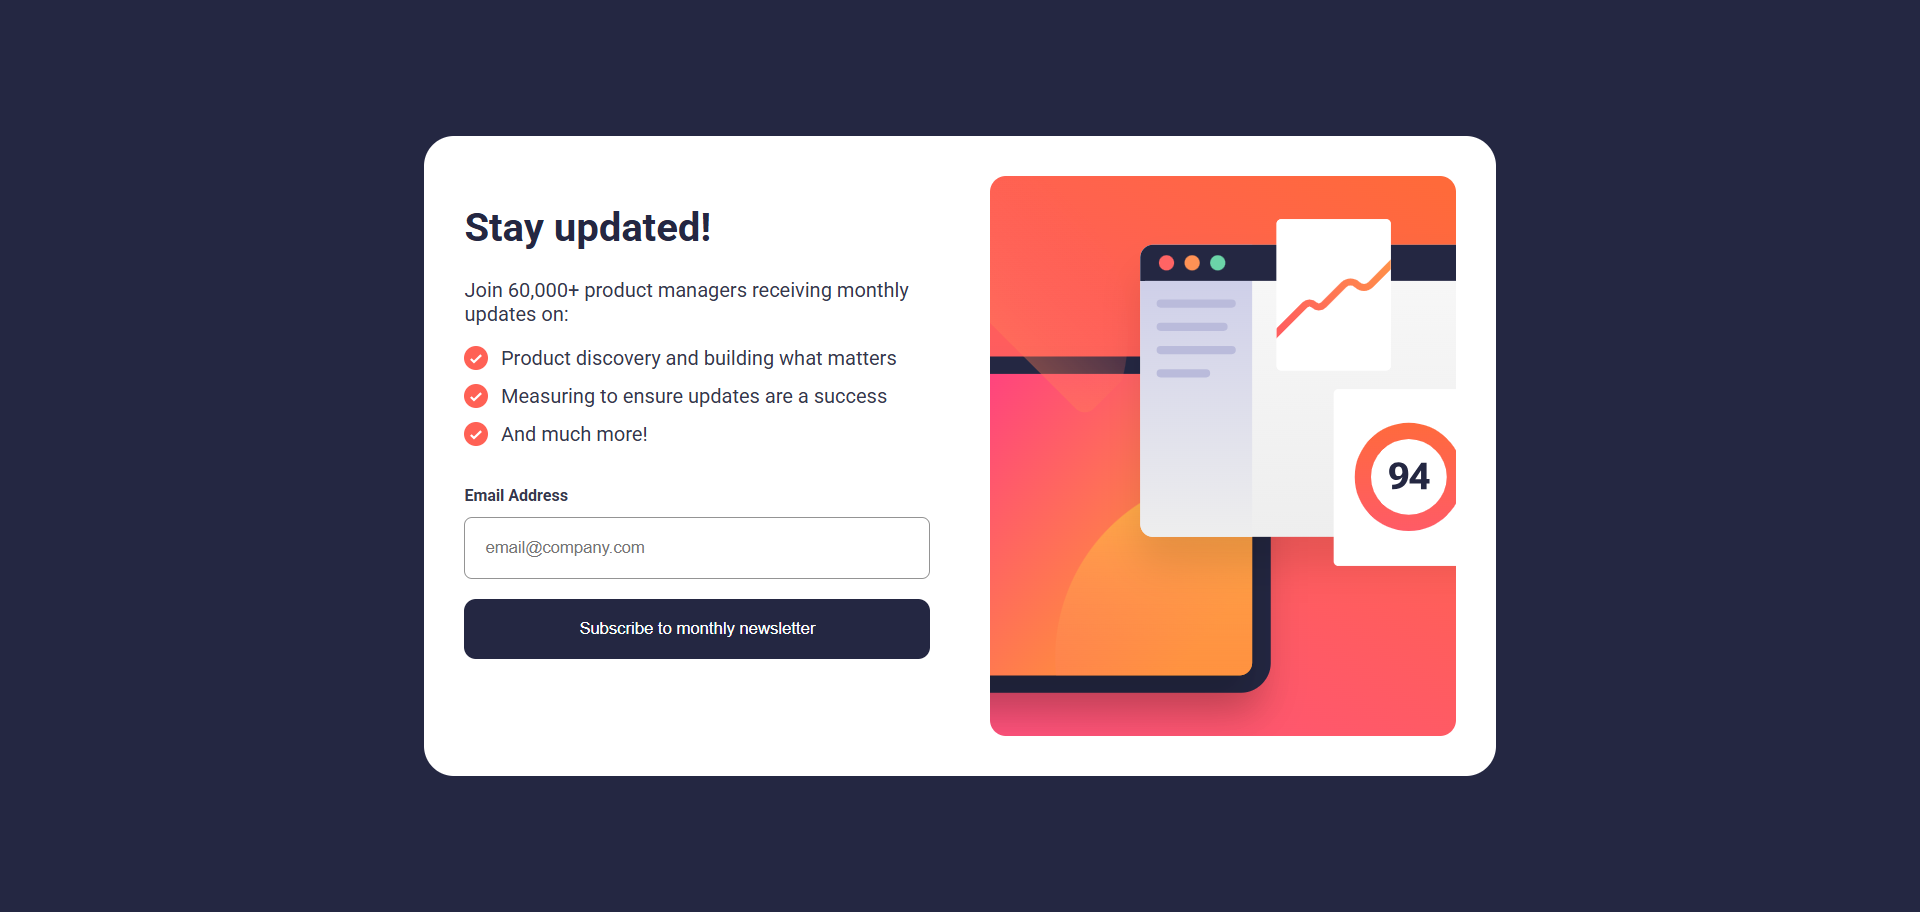
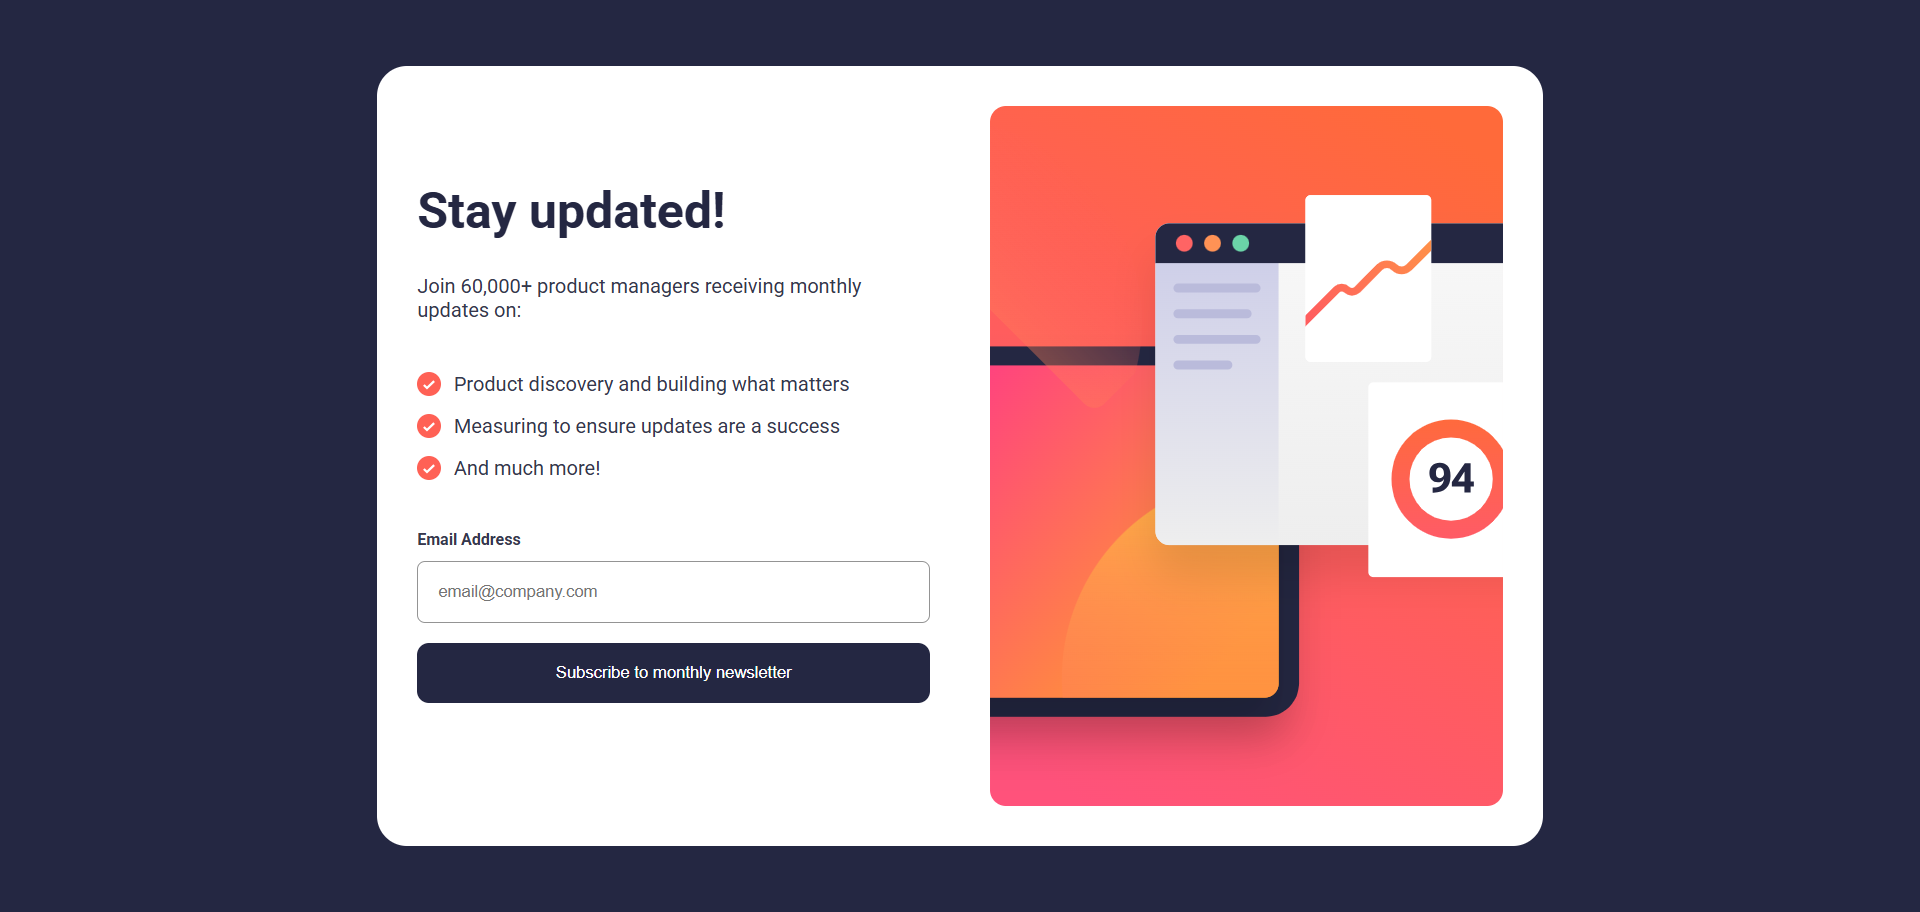
fix: resolve HTML validation and CSS best practice warnings

Changed region(s): [[0.1875, 0.0614, 0.8125, 0.9518]]

diff --git a/style.css b/style.css
@@ -22,6 +22,7 @@ main {
   border-radius: calc(1.5rem);
 }
 h1 {
+  font-size: 2.5rem;
   font-weight: 700;
   color: var(--color-Blue-800);
 }
@@ -31,12 +32,13 @@ h1 {
 ul {
   list-style: none;
   padding: calc(0rem);
+  margin-block: calc(2.5url(c:/Users/ISMAELLE/Downloads/screencapture-127-0-0-1-5500-index-html-2026-06-09-22_16_12.png)rem);
 }
 li {
   display: flex;
   align-items: flex-start;
   gap: calc(0.625rem);
-  margin-block-end: calc(0.7rem);
+  margin-block-end: calc(0.9rem);
 }
 li::before {
   content: "";
@@ -72,6 +74,9 @@ input:focus {
 .subscription-btn:hover,
 .subscription-btn:active {
   cursor: pointer;
+}
+div#subscription {
+    padding-block: 2rem;
 }
 .subscription-btn {
   margin-block-start: calc(1rem);
@@ -119,7 +124,7 @@ input:focus {
 
 @media (min-width: calc(48rem)) {
   main {
-    max-width: calc(80rem);
+    max-width: calc(58rem);
   }
   .illustration-desktop {
     display: block;
@@ -141,7 +146,7 @@ input:focus {
     height: calc(100%);
     object-fit: cover;
     display: block;
-    max-height: calc(28rem);
+    max-height: calc(35rem);
   }
   .illustration-img-desktop {
     border-radius: calc(0.8rem);

diff --git a/README.md b/README.md
@@ -7,7 +7,7 @@ It allows users to subscribe to a newsletter and displays a success message afte
 
 ## 📸 Preview
 
-![](images/preview.png)
+![](images/preview_.png)
 
 ---
 